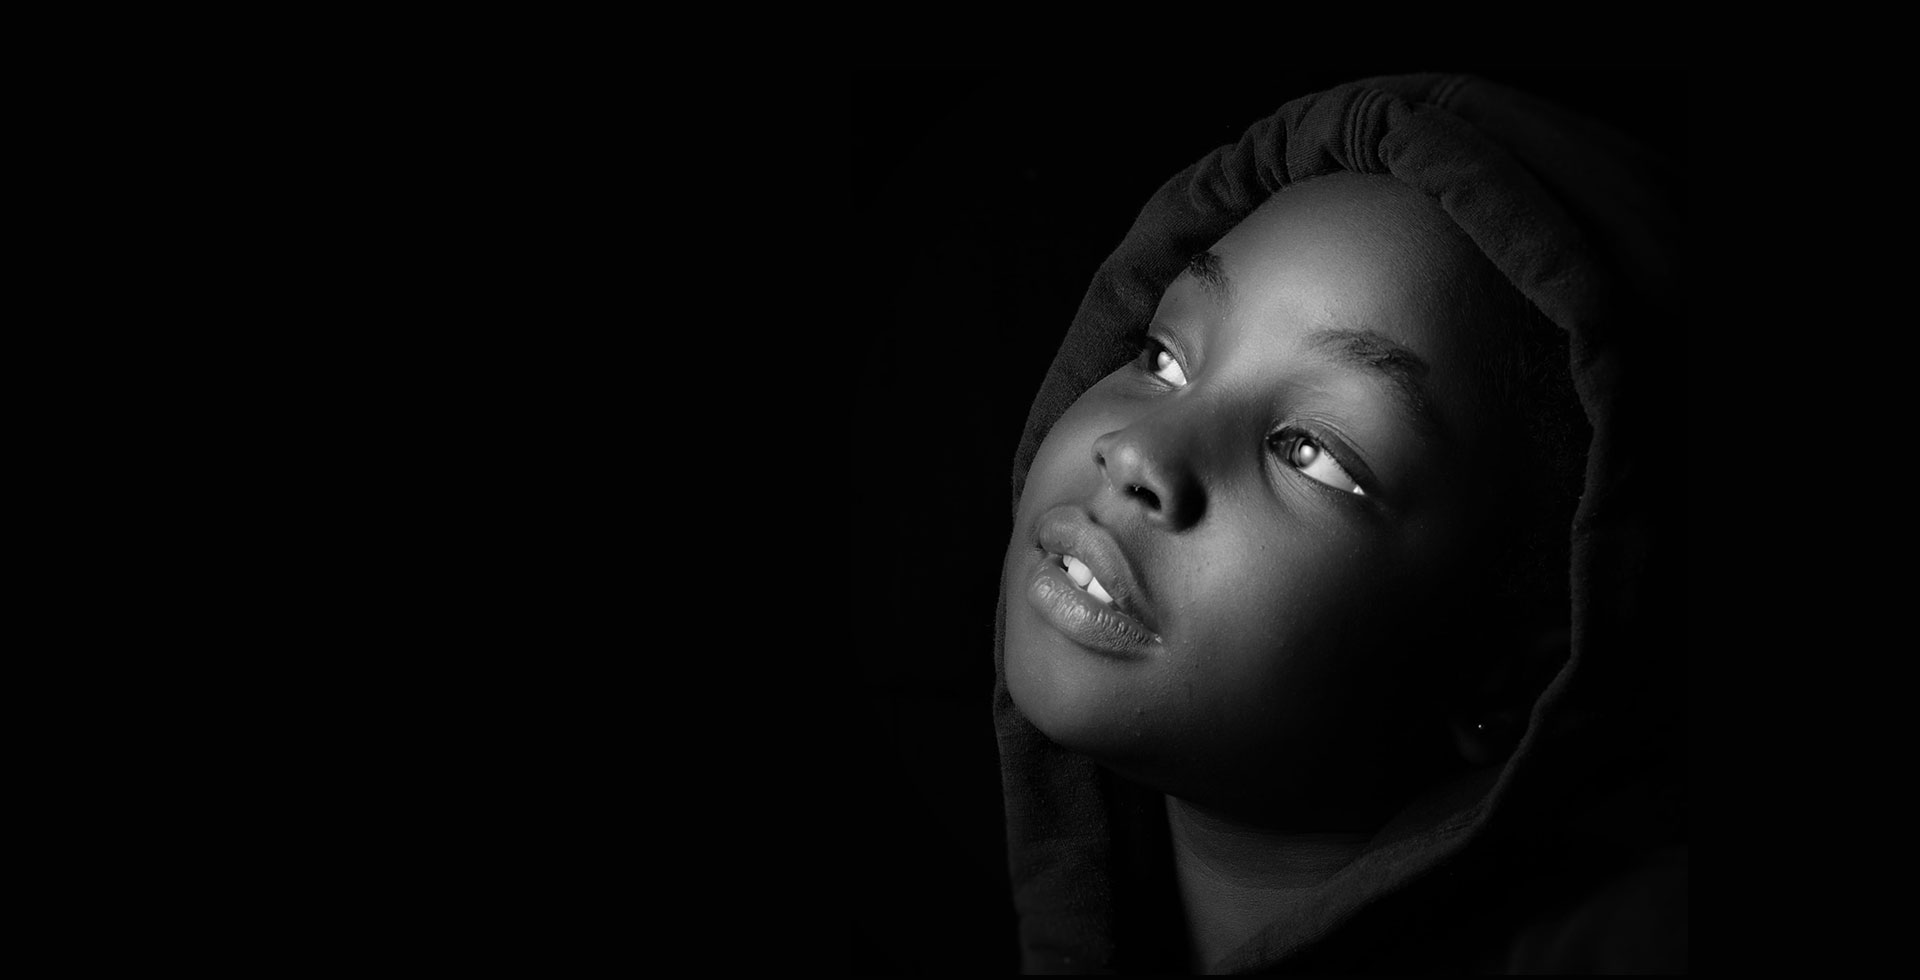
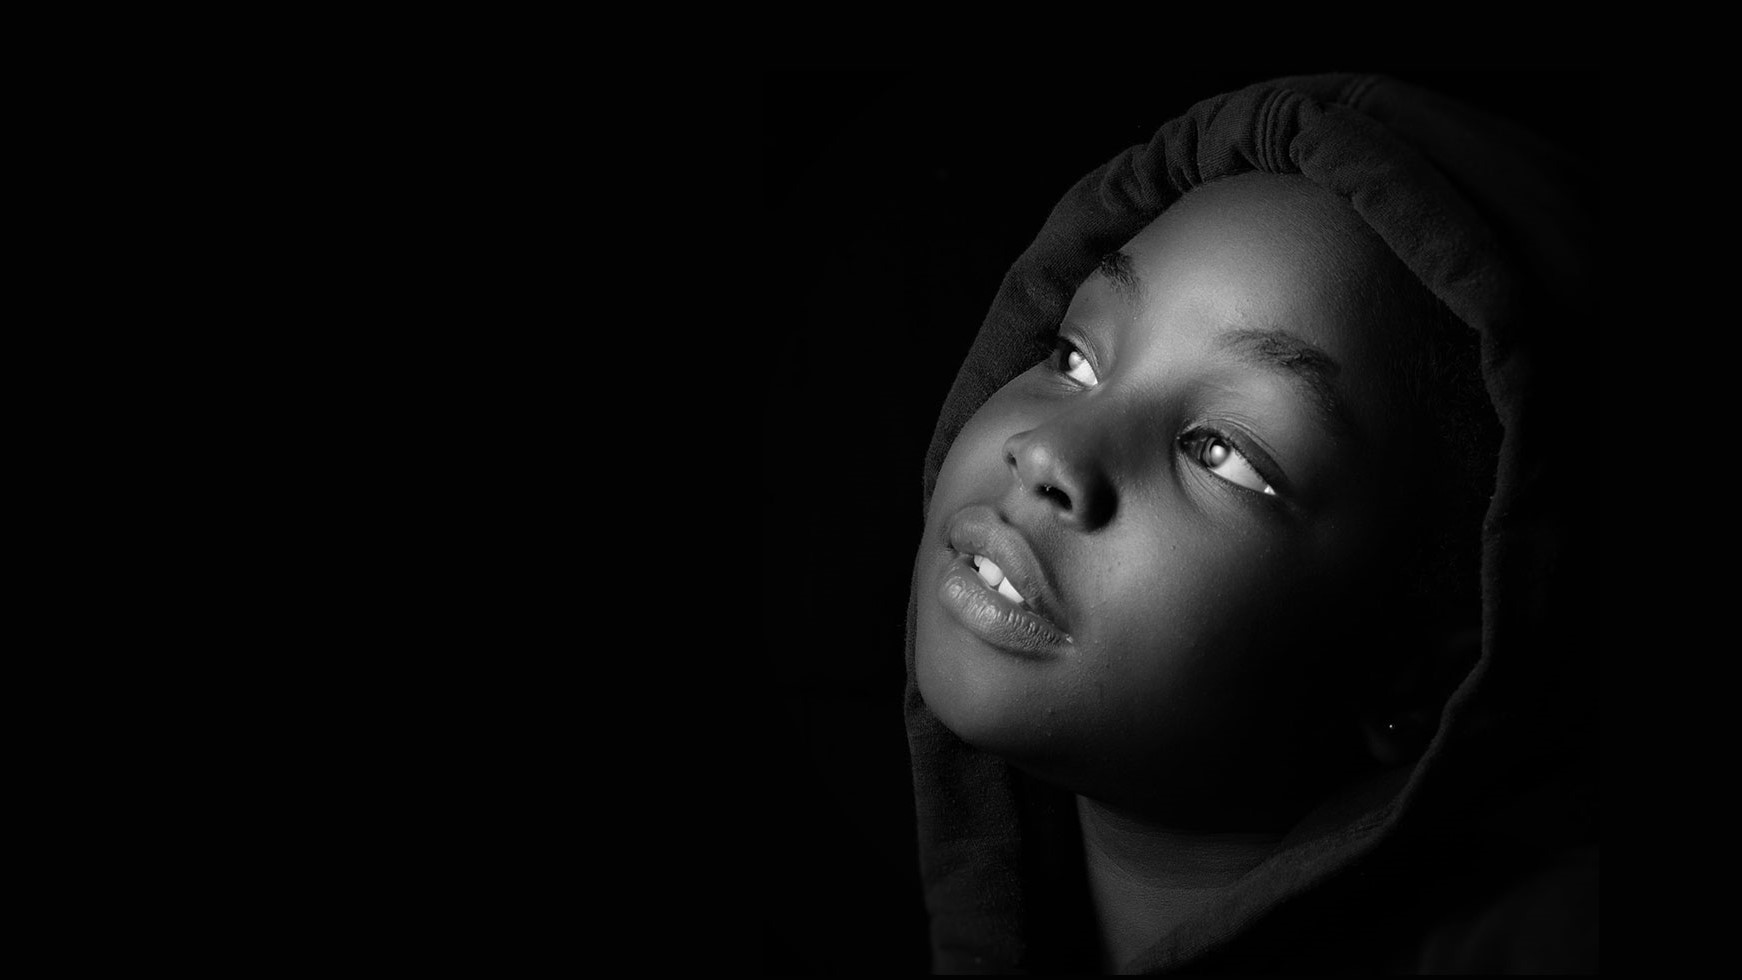
updated

diff --git a/style.css b/style.css
@@ -10,7 +10,10 @@ body {
 
 .target {
   width: 100%;
-  padding: 2.3rem 0rem;
+  padding: 3rem 4rem;
+  font-family: Nimbus Sans Becker PBla;
+  font-variant: initial;
+  gap: 5rem;
 }
 @media (max-width: 600px), (max-width: 400px) {
   .target {
@@ -19,7 +22,7 @@ body {
 }
 .target .left-target {
   width: 50%;
-  background-color: yellow;
+  padding-right: 0;
 }
 @media (max-width: 600px), (max-width: 400px) {
   .target .left-target {
@@ -27,21 +30,60 @@ body {
   }
 }
 .target .left-target img {
-  width: 50%;
+  width: 78%;
 }
 @media (max-width: 600px), (max-width: 400px) {
   .target .left-target img {
-    width: 98%;
+    width: 100%;
   }
 }
 .target .right-target {
   width: 50%;
-  background-color: rebeccapurple;
+  padding: 0.2rem 0.5rem;
+  flex-direction: column;
+  gap: 1rem;
+  padding: 2rem;
+}
+@media (max-width: 600px), (max-width: 400px) {
+  .target .right-target {
+    width: 100%;
+    padding: 0rem;
+  }
+}
+.target .right-target .text-trasp {
+  -webkit-text-fill-color: white;
+  -webkit-text-stroke-width: 1px;
+  -webkit-text-stroke-color: rgb(12, 10, 10);
+}
+.target .right-target .browntxt {
+  font-style: italic;
+  font-weight: 100;
+}
+.target .right-target .donation {
+  border-bottom: 1px solid black;
+  width: 60%;
+  padding: 1rem 0;
+  gap: 2rem;
+}
+.target .right-target .donation .left-dona {
+  gap: 2rem;
+}
+.target .right-target .donation .left-dona .title {
+  font-family: Arial, Helvetica, sans-serif;
+}
+.target .right-target .donation .left-dona .amt {
+  font-weight: bolder;
+}
+.target .right-target .dontn {
+  width: 130px;
 }
 @media (max-width: 600px), (max-width: 400px) {
   .target .right-target {
     width: 98%;
   }
+}
+.target .right-target .browntxt {
+  color: rgb(205, 33, 29);
 }
 
 img {
@@ -63,6 +105,11 @@ img {
 .flex-start {
   display: flex;
   justify-content: flex-start;
+}
+
+.flex-end {
+  display: flex;
+  justify-content: flex-end;
 }
 
 .center {
@@ -367,7 +414,7 @@ img {
   color: white;
   font-size: 4.4rem;
   width: 660px;
-  font-family: Nimbus Sans Becker PBla;
+  font-family: "Archivo Black", sans-serif;
   letter-spacing: 0.4rem;
 }
 @media (max-width: 600px) {

diff --git a/_target.scss b/_target.scss
@@ -1,27 +1,69 @@
 .target{
     width: 100%;
-    padding: 2.3rem 0rem;
+    padding: 3rem 4rem;
+    font-family: Nimbus Sans Becker PBla;
+    font-variant: initial;
+    gap: 5rem;
+    // background-color: brown;
     @media(max-width: 600px),(max-width: 400px){
         flex-direction: column;         
     }
     .left-target{
         width: 50%;
-        background-color: yellow;
+        padding-right: 0;
         @media(max-width: 600px),(max-width: 400px){
             width: 100%;
         }
         img{
-            width: 50%;
+            width: 78%;
             @media(max-width: 600px),(max-width: 400px){
-                width: 98%;
+                width: 100%;
             }
         }
     }
     .right-target{
         width: 50%;
-        background-color: rebeccapurple;
+        padding: .2rem .5rem;
+        flex-direction: column;
+        gap: 1rem;
+        padding: 2rem;
+        @media(max-width: 600px),(max-width: 400px){
+            width: 100%;
+            padding: 0rem;
+        }
+        .text-trasp{
+            -webkit-text-fill-color: white;
+            -webkit-text-stroke-width: 1px;
+            -webkit-text-stroke-color: rgb(12, 10, 10);
+        }
+        .browntxt{
+            font-style: italic;
+            font-weight: 100;
+        }
+        .donation{
+            // background-color: red;
+            border-bottom: 1px solid black;
+            width: 60%;
+            padding: 1rem 0;
+            gap: 2rem;
+            .left-dona{
+                gap: 2rem;
+                .title{
+                    font-family: Arial, Helvetica, sans-serif;
+                }
+                .amt{
+                    font-weight: bolder;
+                }
+            }
+        }
+        .dontn{
+            width: 130px;
+        }
         @media(max-width: 600px),(max-width: 400px){
             width: 98%;
+        }
+        .browntxt{
+            color: rgb(205,33,29);
         }
     }
 }

diff --git a/index.html b/index.html
@@ -11,6 +11,7 @@
       integrity="sha384-GLhlTQ8iRABdZLl6O3oVMWSktQOp6b7In1Zl3/Jr59b6EGGoI1aFkw7cmDA6j6gD"
       crossorigin="anonymous"
     />
+    <link href="https://fonts.googleapis.com/css2?family=Archivo+Black&display=swap" rel="stylesheet">
     <link href="https://fonts.googleapis.com/css2?family=Roboto+Mono:ital,wght@0,100;0,400;1,400;1,500&display=swap" rel="stylesheet">
     <link rel="stylesheet" href="https://cdn.jsdelivr.net/npm/@splidejs/splide@4.1.4/dist/css/themes/splide-skyblue.min.css">
 <link rel="stylesheet" href="style.css">
@@ -128,12 +129,12 @@
        
         </div>
         <section class="target flex-start">
-            <div class="left-target center">
+            <div class="left-target flex-end ">
                 <img src="./assets/target.jpg" alt="">
             </div>
-            <div class="right-target">
-                <h3>#TARGET</h3>
-                <h1>We have <span class="tr-text">reached</span>  so far!</h1>
+            <div class="right-target flex-start">
+                <h3 class="browntxt">#TARGET</h3>
+                <h1>We have <span class="text-trasp ">reached</span>  so far!</h1>
                 <p>Magazine and housed in a nice, gilded frame. It showed a lady fitted out with a fur hat and fur boa who sat upright, raising a heavy fur muff that covered the whole of her lower arm towards the viewer. Gregor then turned to look out the window at the dull weather or then turned to look out.</p>
                 <div class="donation flex-start">
                     <div class="left-dona">
@@ -145,7 +146,7 @@
                         <h2 class="amt">$45,000</h2>
                     </div>
                 </div>
-                <a href="#" class="navDonate">Donate Now</a>
+                <a href="#" class="navDonate dontn">Donate Now</a>
             </div>
         </section>
     </div>

diff --git a/style.scss b/style.scss
@@ -25,6 +25,11 @@ img{
     display: flex;
     justify-content: flex-start;
 }
+.flex-end{
+    display: flex;
+    justify-content: flex-end;
+    // background-color: red;
+}
 .center{
     display: flex;
     justify-content: center;
@@ -298,7 +303,7 @@ img{
                                         color: white;
                                         font-size: 4.4rem;
                                         width: 660px;
-                                        font-family: Nimbus Sans Becker PBla;
+                                        font-family: 'Archivo Black', sans-serif;
                                         letter-spacing: .4rem;
                                         @media(max-width: 600px){
                                             font-size: 2rem;
